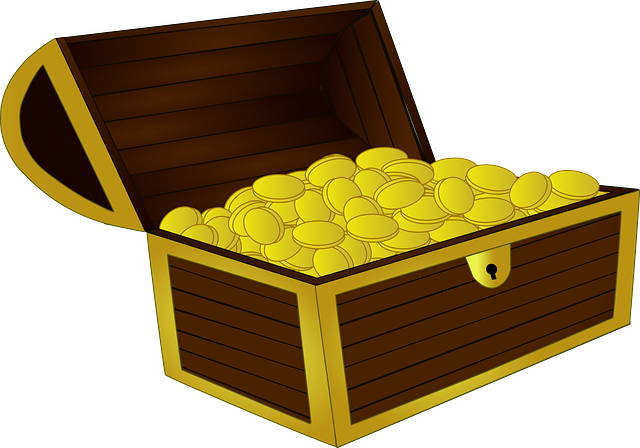
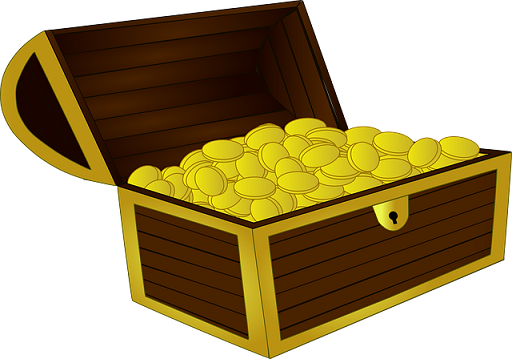
end game play again button, usedRiddles array

diff --git a/public/index.js b/public/index.js
@@ -2,6 +2,7 @@
 
 /* 
 1. node server.js
+2. Use clearDB add on in tandem with heroku / github
 */
 
 //html dom elements
@@ -41,6 +42,7 @@ const user = document.getElementById(`user`);
 
 const victoryScreen = document.getElementById(`victoryScreen`);
 const treasure = document.getElementById(`treasure`);
+const playAgainVictory = document.getElementById(`playAgainVictory`);
 
 //initialized variable for site visit
  let usedRiddles = [], purpleDoorGame, colors = [], lives = [1, 2, 3], userAttacks;
@@ -216,8 +218,26 @@ class PurpleDoorGame {
 
     async task() {
         return new Promise(async (resolve, reject) => {
+            //length of total riddles I've added so that application doesnt crash when it runs out
+            if(usedRiddles.length == 20){
+                usedRiddles = [];
+            }
             let riddleCount = await this.getRiddleCount();
-            let riddle = await this.getRiddle(riddleCount);
+
+            let riddle;
+            for(let i = 0; i < 1; i++){
+                riddle = await this.getRiddle(riddleCount);
+                console.log(Object.keys(riddle.riddle)[0]);
+                console.log(usedRiddles.find(ur => { return ur.id == Object.keys(riddle.riddle)[0] }));
+                if(usedRiddles.find(ur => { return ur.id == Object.keys(riddle.riddle)[0] })){
+                    i -= 1;
+                }
+            }
+            let usedRiddle = {
+                id: Object.keys(riddle.riddle)[0]
+            }
+            usedRiddles.push(usedRiddle);
+            console.log(usedRiddles);
 
             let riddleText = Object.values(riddle.riddle);
             let answerText = Object.values(riddle.answerText);
@@ -254,13 +274,13 @@ class PurpleDoorGame {
     }
 
     async getRiddle(riddleCount) {
-        return new Promise(async (resolve, reject) => {
-            let randomRiddle = Math.floor((Math.random() * riddleCount) + 1);
-            const response = await fetch('http://localhost:8080/riddle/' + randomRiddle);
-            const riddleObject = await response.json();
+            return new Promise(async (resolve, reject) => {
+                let randomRiddle = Math.floor((Math.random() * riddleCount) + 1);
+                const response = await fetch('http://localhost:8080/riddle/' + randomRiddle);
+                const riddleObject = await response.json();
 
-            resolve(riddleObject);
-        });
+                resolve(riddleObject);
+            });
     }
 
     async getColorCount() {
@@ -284,8 +304,8 @@ class PurpleDoorGame {
 
     async createDoors(colors, answers) {
         //check for purple door
-        // colors[0].is_purple_door = 1;
-        // colors[0].name = `Magenta`;
+        colors[0].is_purple_door = 1;
+        colors[0].name = `Magenta`;
         if(colors.find(c => c.is_purple_door == 1)){
             let purpleIndex = colors.findIndex(c => c.is_purple_door == 1);
             this.drawPurpleDoor(colors[purpleIndex].name);
@@ -650,4 +670,10 @@ dragonMove.addEventListener(`click`, async (e) => {
         
         await dragonGame.setUserMoves(userAttacks);
     }
+});
+
+playAgainVictory.addEventListener(`click`, (e) => {
+    e.preventDefault();
+
+    location.reload();
 });

diff --git a/public/index.html b/public/index.html
@@ -54,9 +54,11 @@
             <div id="victoryScreen" class="hidden">
                 <header>The Purple Door</header>
                 <div>
-                    <label>Congratulations!</label>
+                    <label>Congratulations!  You found The Purple Door, Defeated the Dragon, and Claimed the Treasure!  You Won!</label>
+                    <br><br>
+                    <canvas id="treasure" width="512" height="359" style="position: relative; left: 20%;"></canvas>
                     <br>
-                    <canvas id="treasure" width="640" height="448" style="position: relative; left: 20%;"></canvas>
+                    <button id="playAgainVictory" class="button" style="float: right">Play Again?</button>
                 </div>
             </div>
         </div>
